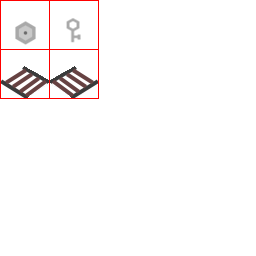
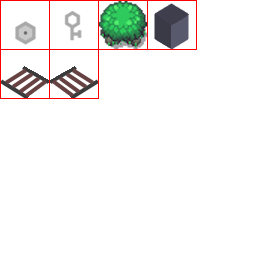
Add doors

Changed region(s): [[0.375, 0.0, 0.7812, 0.2188], [0.25, 0.0312, 0.3438, 0.1562]]

diff --git a/auroral/environment.py b/auroral/environment.py
@@ -106,6 +106,7 @@ class PlayerAgent(Agent):
         self.MAGIC_SPEED = 0.05
         self.speed = 6.0
         self.score = 0.0
+        self.n_keys = 0
 
     def fire(self):
         if self.magic > 0.0:
@@ -168,6 +169,7 @@ class Environment:
                 self.player = self.agents[-1][1]
             else:
                 self.agents.append((k, Agent(v)))
+        self.n_points = sum([len(list(c for c in l if c == "*")) for l in self.objects])
         self.collisions = np.zeros((len(self.tilemap), len(self.tilemap[0])))
         self.refresh_collisions()
 
@@ -179,7 +181,10 @@ class Environment:
             for j in range(len(self.tilemap[0])):
                 # Normal tiles
                 if self.tilemap[i][j] in (' ', '0', '1'):
-                    self.collisions[i][j] = 0
+                    if self.objects[i][j] in ("t", "d"):
+                        self.collisions[i][j] = 1
+                    else:
+                        self.collisions[i][j] = 0
                 elif self.tilemap[i][j] == 2:
                     self.collisions[i][j] = 1
                 else:
@@ -191,14 +196,34 @@ class Environment:
                     else:
                         self.collisions[i][j] = 1
 
-    def update(self, delta: float):
+    def update(self, delta: float) -> bool:
         self.displace_agents(delta)
         self.update_agents(delta)
         self.move_projectiles(delta)
         self.update_animations(delta)
+        self.collect_objects(delta)
         self.update_objects(delta)
+        return self.is_end_state()
+
+    def is_end_state(self):
+        if self.player.health_points <= 0.0:
+            return True
+        if self.n_points == 0:
+            return True
+        return False
 
     def update_objects(self, delta: float):
+        x, y = int(self.player.position.x + 0.5), int(self.player.position.y + 0.5)
+        for i in range(len(self.objects)):
+            for j in range(len(self.objects[0])):
+                if self.objects[i][j] == "d" and self.get_player().n_keys:
+                    distance = Vector(x - j, y - i).norm()
+                    if distance < 1.02:
+                        self.get_player().n_keys -= 1
+                        self.objects[i][j] = " "
+                        self.collisions[i][j] = 0
+
+    def collect_objects(self, delta: float):
         x, y = int(self.player.position.x + 0.5), int(self.player.position.y + 0.5)
         if x < 0:
             x = 0
@@ -210,9 +235,10 @@ class Environment:
             y = len(self.objects) - 1
         if self.objects[y][x] == "*":
             self.player.score += 1.0
+            self.n_points -= 1
             self.objects[y][x] = " "
         elif self.objects[y][x] == "k":
-            print("KEY")
+            self.get_player().n_keys += 1
             self.objects[y][x] = " "
 
     def update_animations(self, delta: float):
@@ -276,6 +302,10 @@ class Environment:
             if row >= 0 and row < len(self.collisions) and col >= 0 and col < len(self.collisions[0]):
                 if self.collisions[row][col] >= 2:
                     p.explode()
+                if self.objects[row][col] == "t":
+                    p.explode()
+                    self.objects[row][col] = " "
+                    self.collisions[row][col] = 0
             # Agents
             for name, agent in self.agents:
                 if (

diff --git a/auroral/renderer.py b/auroral/renderer.py
@@ -38,7 +38,8 @@ def load_resources(directory: str, config_file: str, theme: str):
         "objects": content["object_image"],
         "agents": content["agent_image"],
         "projectiles": content["projectile_image"],
-        "animations": content["animations"]
+        "animations": content["animations"],
+        "object_heights": content["object_heights"],
     }
     return {"images": images, "matches": matches, "parameters": parameters}
 
@@ -197,15 +198,16 @@ def render_isometric(env: environment.Environment,
             # Items
             v = str(env.objects[row][col])
             if v in resources["matches"]["objects"]:
-                ix = resources["matches"]["objects"][v][1]
-                iy = resources["matches"]["objects"][v][0]
-                x = (col - row) / 2 * N
-                y = diagonal * M / 2
-                screen.blit(
-                    resources["images"]["objects"],
-                    (x + x_o, y + y_o),
-                    (ix + (ix * N) + 1, iy + (iy * N) + 1, N, N)
-                )
+                if resources["matches"]["object_heights"][v] == 0:
+                    ix = resources["matches"]["objects"][v][1]
+                    iy = resources["matches"]["objects"][v][0]
+                    x = (col - row) / 2 * N
+                    y = diagonal * M / 2
+                    screen.blit(
+                        resources["images"]["objects"],
+                        (x + x_o, y + y_o),
+                        (ix + (ix * N) + 1, iy + (iy * N) + 1, N, N)
+                    )
             # Indices
             row -= 1
             col += 1
@@ -248,6 +250,19 @@ def render_isometric(env: environment.Environment,
                         resources["images"]["agents"],
                         (x + x_o, y + y_o),
                         (ix, iy * AGENT_N + iy + 1, AGENT_N, AGENT_N)
+                    )
+            # Items
+            v = str(env.objects[row][col])
+            if v in resources["matches"]["objects"]:
+                if resources["matches"]["object_heights"][v] == 1:
+                    ix = resources["matches"]["objects"][v][1]
+                    iy = resources["matches"]["objects"][v][0]
+                    x = (col - row) / 2 * N
+                    y = diagonal * M / 2
+                    screen.blit(
+                        resources["images"]["objects"],
+                        (x + x_o, y + y_o),
+                        (ix + (ix * N) + 1, iy + (iy * N) + 1, N, N)
                     )
             # Projectiles
             for projectile in env.projectiles:

diff --git a/auroral/game.py b/auroral/game.py
@@ -80,7 +80,8 @@ while True:
     now = time.time()
     delta = now - ti
     ti = now
-    env.update(delta)
+    if env.update(delta):
+        break
     position = env.get_player().position
     screen.fill((50, 50, 50))
     renderer.render_isometric(
